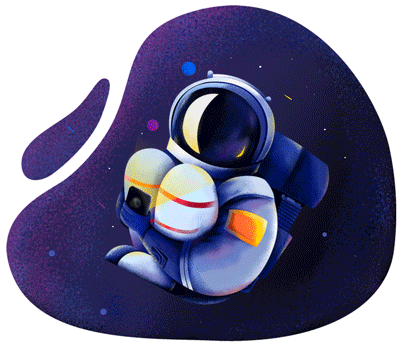
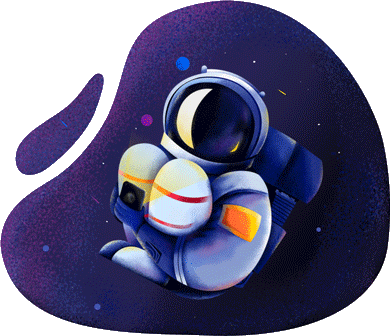
Main content style

diff --git a/main.css b/main.css
@@ -15,10 +15,9 @@ footer{
 
 header{
     margin-top: 40px;
-
 }
 
-img{
+header > img{
     width: 100px;
     height: 40px;
     object-fit: contain;
@@ -31,7 +30,7 @@ nav{
     float: right;
 }
 
-a{
+nav > a{
     display: inline-block;
     color: #000;
     font-size: 20px;
@@ -41,11 +40,40 @@ a{
     margin-left: 2em;
 }
 
-a:first-child{
+nav > a:first-child{
     margin-left: 0;
 }
 
-a:hover{
+nav > a:hover{
     color: blueviolet;
     text-decoration: underline;
+}
+main{
+
+}
+div{
+    float: left;
+    width: 40%;
+}
+h1{
+    font-size: 50px;
+    color: #222222;
+    font-weight: normal;
+}
+h1 > span{
+    font-weight: bold;
+    display: block;
+}
+p{
+    font-size: 20px;
+}
+div > a{
+    background-color: red
+}
+div > a:last-child{
+    background-color: aqua;
+}
+main > img{
+    float: right;
+    width: 55%;
 }

diff --git a/index.html b/index.html
@@ -27,7 +27,13 @@
     </header>
 
     <main>
-        main content
+        <div>
+            <h1>404 <span>Lost in space</span></h1>
+            <p>Lorem ipsum dolor sit amet consectetur, adipisicing elit. Doloribus deleniti sit, explicabo sed dolorem itaque. A laboriosam minus magni ipsam, fugiat rem veritatis similique dignissimos beatae explicabo, quis excepturi corporis.</p>
+            <a href="#">Go home</a>
+            <a href="#">Back</a>
+        </div>
+        <img src="./astro.png" alt="Astronautas">
     </main>
 
     <footer>
